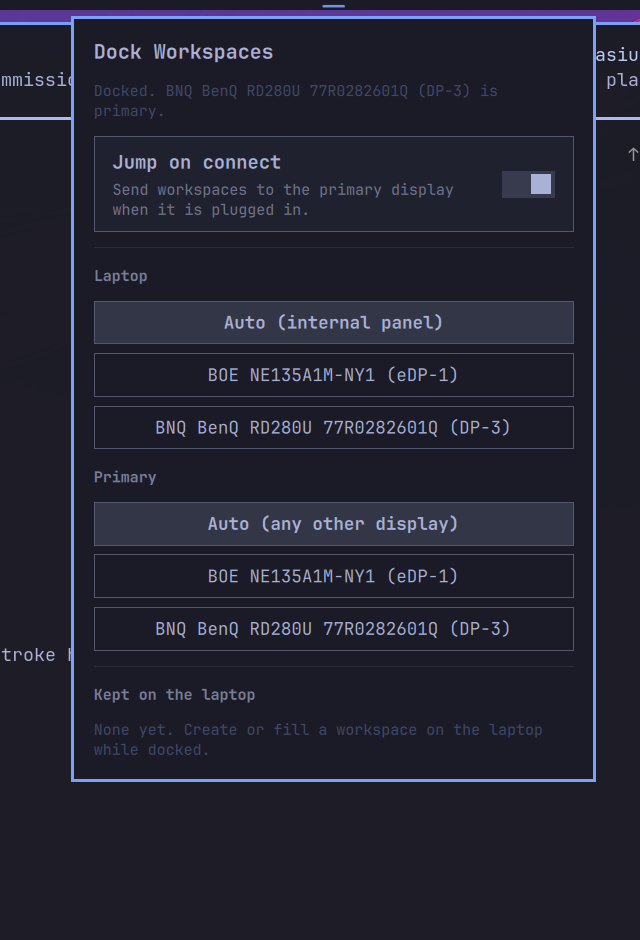
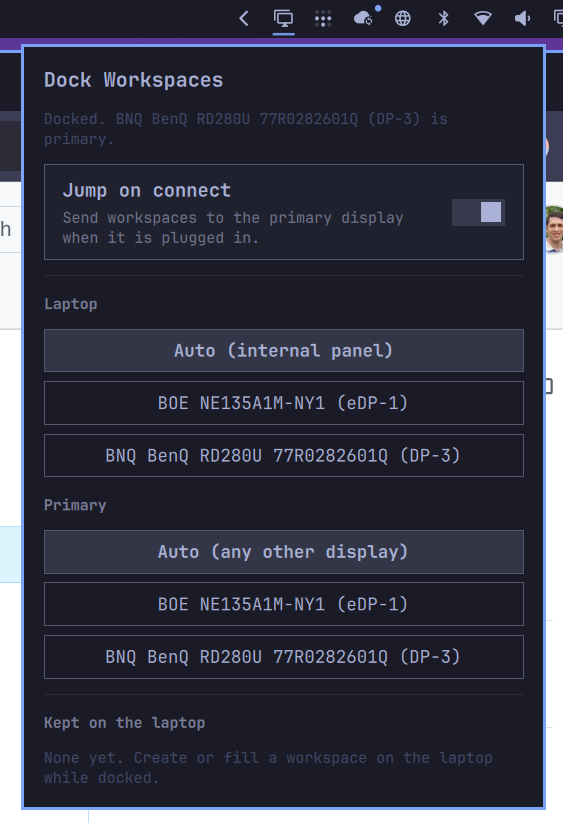
Use the settings-panel screenshot in the README.

diff --git a/README.md b/README.md
@@ -1,5 +1,7 @@
 # Dock Workspaces
 
+![Dock Workspaces settings](preview.png)
+
 When you plug in an external display, Hyprland usually leaves your windows on the laptop panel and gives the new screen an empty workspace.
 
 This plugin sends workspaces to the primary display on connect, except ones you created or filled on the laptop during the last dual-monitor session. Unplug still piles everything onto the laptop. Plug back in and that split comes back; anything you started while undocked goes to the primary.
